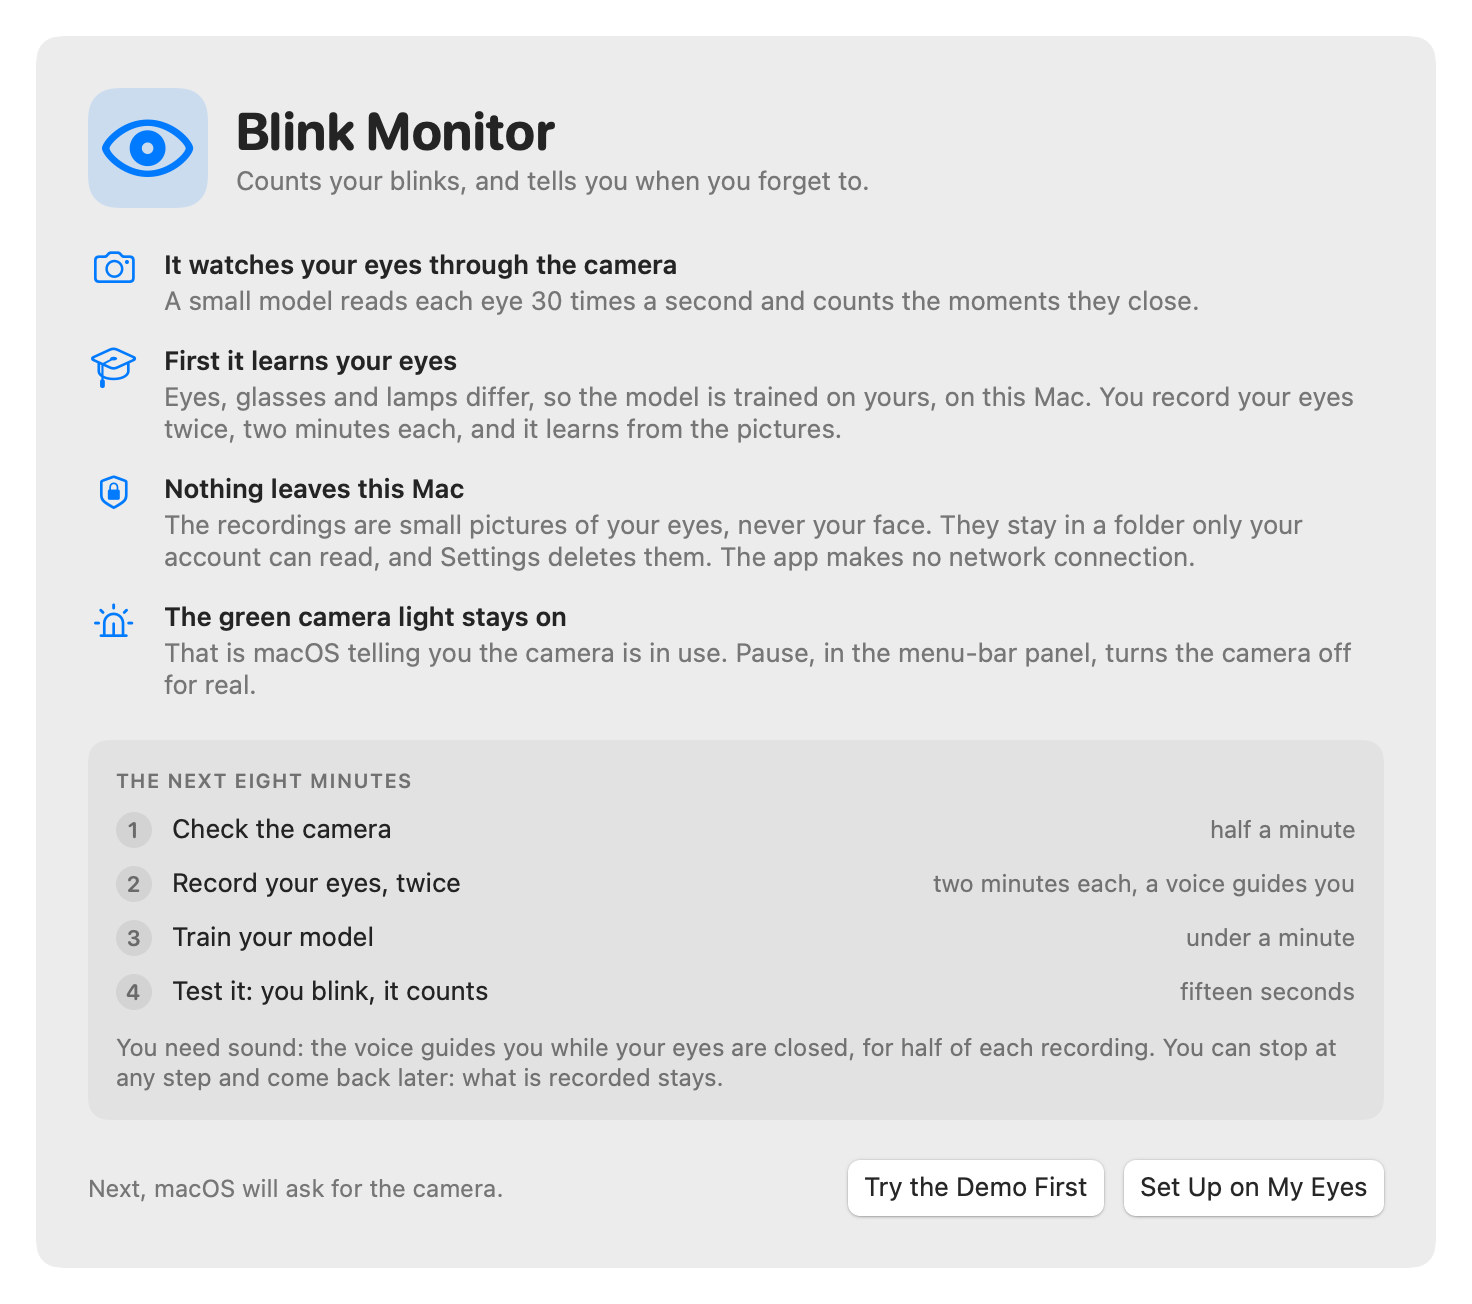
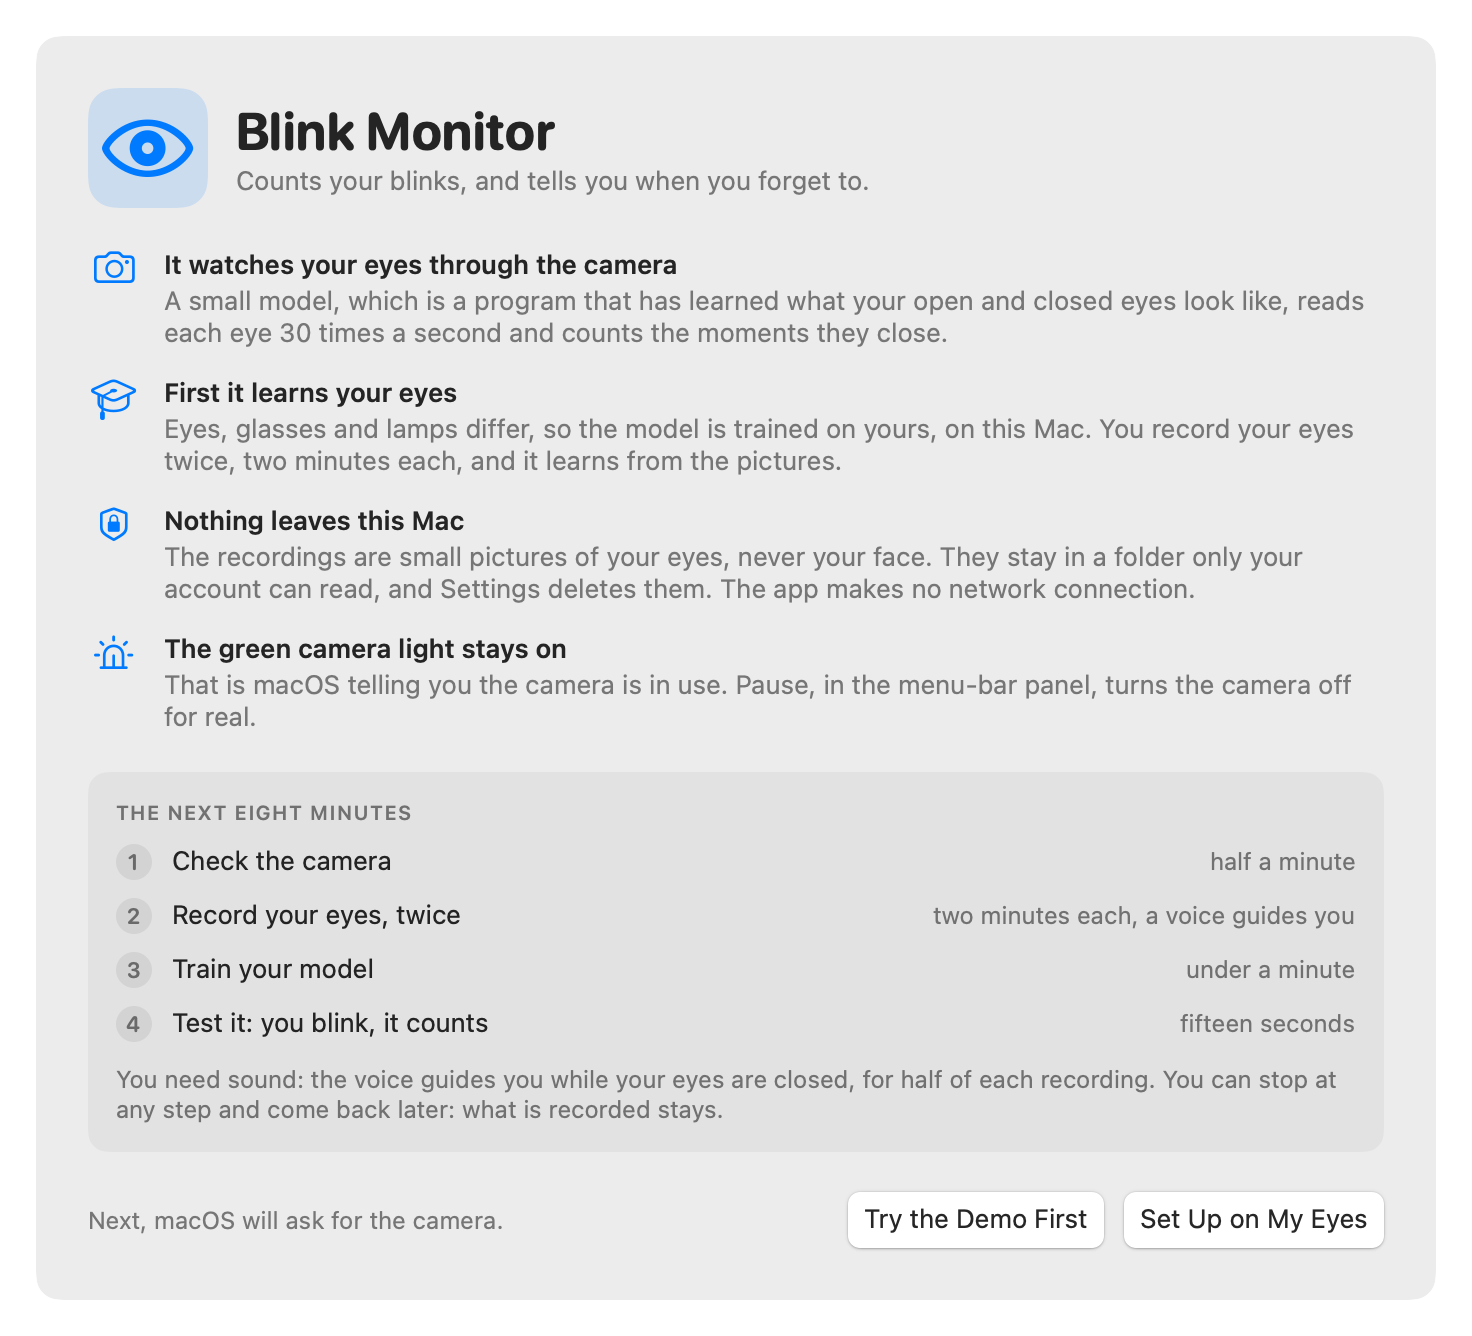
One sentence for each state of the camera, the model explained, a focus ring on the tiles
A blocked camera and a silent one were each worded three ways in three
places. The sentences are now in one place and reused by the panel, the blink
break, Live View and the setup. The welcome page says in a few words what a
model is. Live View writes a duration as one. The panel's tiles show where
the keyboard is.

diff --git a/Sources/BlinkMonitor/Setup/SetupView.swift b/Sources/BlinkMonitor/Setup/SetupView.swift
@@ -200,7 +200,7 @@ private struct WelcomePage: View {
 
             VStack(alignment: .leading, spacing: 14) {
                 WelcomePoint(symbol: "camera", title: "It watches your eyes through the camera",
-                             text: "A small model reads each eye 30 times a second and counts the moments they close.")
+                             text: "A small model, which is a program that has learned what your open and closed eyes look like, reads each eye 30 times a second and counts the moments they close.")
                 WelcomePoint(symbol: "graduationcap", title: "First it learns your eyes",
                              text: "Eyes, glasses and lamps differ, so the model is trained on yours, on this Mac. You record your eyes twice, two minutes each, and it learns from the pictures.")
                 WelcomePoint(symbol: "lock.shield", title: "Nothing leaves this Mac",
@@ -331,8 +331,8 @@ private struct CameraPage: View {
         let watching = model.camera == .on
         var checks: [Check] = []
         if watching && model.cameraSilent {
-            checks.append(Check(state: .warning, title: "The camera is not sending pictures",
-                                detail: "With the lid closed that is expected. Open it: the Mac's own camera has to face you."))
+            checks.append(Check(state: .warning, title: String(CameraNote.silent.dropLast()),
+                                detail: "That is normal with the lid closed. Open it, or choose another camera: the camera in use has to face you."))
         } else if model.faceInView {
             checks.append(Check(state: .good, title: "Your face is in view", detail: "Stay where you are comfortable: that is where it will watch you."))
         } else if watching && model.faceMissing {
@@ -406,8 +406,8 @@ private struct CameraTrouble {
     init?(_ state: SetupModel.CameraState) {
         switch state {
         case .refused:
-            title = "Blink Monitor is not allowed to use the camera"
-            text = "Allow it in System Settings > Privacy & Security > Camera. macOS may then ask to quit and reopen "
+            title = String(CameraNote.blocked(appName: "Blink Monitor").dropLast())
+            text = CameraNote.unblock(appName: "Blink Monitor") + " macOS may then ask to quit and reopen "
                 + "Blink Monitor: say yes, the setup goes on from this page."
             refused = true
         case .failed(let reason):
@@ -469,9 +469,9 @@ private struct SetupCamera: View {
         if model.isDemo { return "Demo: there is no camera picture. The eyes on the right are painted." }
         switch model.camera {
         case .asking: return "macOS is asking for the camera…"
-        case .refused: return "Blink Monitor is not allowed to use the camera."
+        case .refused: return CameraNote.blocked(appName: "Blink Monitor")
         case .failed: return "The camera could not be started."
-        case .off, .on: return model.cameraSilent ? "The camera is not sending pictures." : "Starting the camera…"
+        case .off, .on: return model.cameraSilent ? CameraNote.silent : "Starting the camera…"
         }
     }
 }

diff --git a/Sources/BlinkUI/CameraNote.swift b/Sources/BlinkUI/CameraNote.swift
@@ -3,10 +3,25 @@ import BlinkCore
 /// What a camera view says while it has no picture to show: worded once, for every window.
 public enum CameraNote {
 
+    // ONE SENTENCE PER STATE OF THE CAMERA, used by every window that has to say it. The
+    // same state was worded three ways in three places ("refused", "not allowed"; three
+    // endings after "not sending pictures").
+
+    /// The camera is blocked for this app in System Settings.
+    public static func blocked(appName: String) -> String { "\(appName) is not allowed to use the camera." }
+    /// What to do about it.
+    public static func unblock(appName: String) -> String {
+        "Turn \(appName) on in System Settings > Privacy & Security > Camera."
+    }
+    /// The camera is on and sends nothing.
+    public static let silent = "The camera is not sending pictures."
+    /// What that usually is, and what happens next.
+    public static let silentWhy = "That is normal with the lid closed. Otherwise the camera restarts by itself."
+
     public static func text(for lifecycle: Lifecycle, appName: String) -> String {
         switch lifecycle {
         case .cameraRefused:
-            return "Camera access was refused.\nAllow \(appName) in System Settings > Privacy & Security > Camera."
+            return blocked(appName: appName) + "\n" + unblock(appName: appName)
         case .failed(let reason):
             return reason
         case .needsSetup:

diff --git a/Sources/BlinkMonitor/App/MonitorStatus+Words.swift b/Sources/BlinkMonitor/App/MonitorStatus+Words.swift
@@ -120,8 +120,8 @@ extension MonitorStatus {
         case .settingUp(.testing):
             return "Setup is testing your model. Nothing is counted meanwhile."
         case .cameraRefused:
-            return "Camera access was refused. Allow Blink Monitor in System Settings > Privacy & Security > Camera. "
-                + "If nothing changes after that, quit Blink Monitor and open it again."
+            return CameraNote.blocked(appName: "Blink Monitor") + " " + CameraNote.unblock(appName: "Blink Monitor")
+                + " If nothing changes after that, quit Blink Monitor and open it again."
         case .failed(let reason):
             return reason
         case .paused(let until):
@@ -129,7 +129,7 @@ extension MonitorStatus {
             return "The camera is off until " + (until.map { Format.pauseEnd($0) } ?? "you resume")
                 + ". Nothing is counted, and no blink reminder or look-away break comes. Routines still remind you."
         case .cameraSilent:
-            return "The camera is not sending pictures, so nothing is counted. That is normal with the lid closed. Otherwise the camera restarts by itself."
+            return CameraNote.silent + " Nothing is counted. " + CameraNote.silentWhy
         case .noFace:
             return "No face in view, so this time is not counted. If you are here: face the camera and check the light."
         case .watching(let rate):

diff --git a/Sources/BlinkMonitor/MenuBar/BlinkBreakView.swift b/Sources/BlinkMonitor/MenuBar/BlinkBreakView.swift
@@ -1,5 +1,6 @@
 import SwiftUI
 import BlinkCore
+import BlinkUI
 
 /// What the blink break says at its end. It counts every blink the camera sees, slow or
 /// not, so it says "10 blinks": "10 full blinks" claimed something it does not check.
@@ -89,7 +90,7 @@ struct BlinkBreakView: View {
         case .paused:
             return "The camera is paused, so nothing is counted. Resume from the menu bar."
         case .cameraSilent:
-            return "The camera is not sending pictures, so nothing is counted."
+            return CameraNote.silent + " Nothing is counted."
         case .needsSetup, .settingUp:
             return "Blink Monitor is not set up yet, so nothing is counted."
         case .starting, .cameraRefused, .failed:

diff --git a/Sources/BlinkMonitor/MenuBar/MenuPanelView.swift b/Sources/BlinkMonitor/MenuBar/MenuPanelView.swift
@@ -693,6 +693,8 @@ private struct ActionTile: View {
     let title: String
     var tint: Color?
     let action: () -> Void
+    /// The keyboard is on this tile (with keyboard navigation switched on in macOS).
+    @FocusState private var focused: Bool
 
     var body: some View {
         Button(action: action) {
@@ -711,6 +713,13 @@ private struct ActionTile: View {
             .padding(.vertical, 9)
         }
         .buttonStyle(TileStyle(tint: tint))
+        .focused($focused)
+        // The tile draws itself, so it draws its own focus ring too.
+        .overlay {
+            if focused {
+                RoundedRectangle(cornerRadius: 8).stroke(Color.accentColor, lineWidth: 2)
+            }
+        }
     }
 }
 

diff --git a/Sources/BlinkMonitor/App/Snapshots.swift b/Sources/BlinkMonitor/App/Snapshots.swift
@@ -35,6 +35,8 @@ enum Snapshots {
             let model = SampleData.model(now: now, scene: scene)
             let state = SettingsState()
             state.tab = tab
+            // (The pictures have no camera to ask: one is stated.)
+            state.cameras = [CameraOption(id: "own", name: "FaceTime HD Camera", builtIn: true)]
             configure(state, model)
             // A folder that does not exist: the screenshots state what is on disk instead.
             let nowhere = FileManager.default.temporaryDirectory.appendingPathComponent("blink-monitor-sample-setup", isDirectory: true)

diff --git a/Sources/BlinkMonitor/App/MonitorModel.swift b/Sources/BlinkMonitor/App/MonitorModel.swift
@@ -234,7 +234,7 @@ final class MonitorModel: ObservableObject {
         if isDemo { return "Demo: the camera is off, and the blinks are made up." }
         if setupStage != nil { return "Setup is at work: nothing is counted meanwhile." }
         if lifecycle == .running && (isPaused || resting) { return "Paused: the camera is off." }
-        if lifecycle == .running && cameraSilent { return "The camera is not sending pictures." }
+        if lifecycle == .running && cameraSilent { return CameraNote.silent }
         return CameraNote.text(for: lifecycle, appName: "Blink Monitor")
     }
 

diff --git a/Sources/BlinkMonitor/LiveView/LiveView.swift b/Sources/BlinkMonitor/LiveView/LiveView.swift
@@ -167,8 +167,10 @@ private struct Counters: View {
         return "left \(answer(.imageLeft))   right \(answer(.imageRight))"
     }
 
+    /// "11 min 42 s": a duration, which "11:42" read as a time of day.
     private func clock(_ seconds: Double) -> String {
-        String(format: "%d:%02d", Int(seconds) / 60, Int(seconds) % 60)
+        let whole = Int(seconds)
+        return whole < 60 ? "\(whole) s" : "\(whole / 60) min \(whole % 60) s"
     }
 }
 
